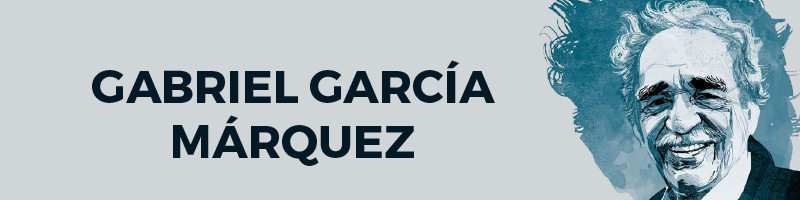
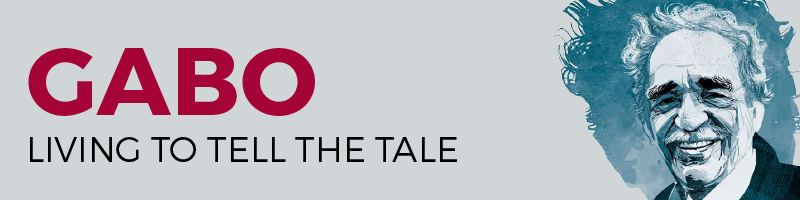
Update for Artisan 5

Changed region(s): [[0.6562, 0.0, 1.0, 1.0], [0.0312, 0.24, 0.625, 0.84]]

diff --git a/artisan.html b/artisan.html
@@ -4,19 +4,25 @@
     <head>
         <meta charset="utf-8">
         <meta http-equiv="X-UA-Compatible" content="IE=edge">
-        <title>Gabiel Garcia Marquez</title>
+        <title>Gabriel Garcia Marquez</title>
         <meta name="description" content="">
+        <link rel="stylesheet" type="text/css" href="style.css">
     </head>
     <body>
+    <div class="container">    
         <header>
+    
             <img src="banner.png"/>
+
         </header>
         
         <main>
         <section>   
-          <h1>Biography</h1>
+          <h1>Gabriel Garcia Marquez</h1>
+            
+            <h2>Biography</h2>
         
-          <p>Gabriel José de la Concordia García Márquez, born in <i>6 March 1927 – 17 April 2014 </i> was a <strong>Colombian</strong> novelist, short-story writer, screenwriter and journalist, known affectionately as Gabo or Gabito throughout Latin America. Considered one of the most significant authors of the 20th century and one of the best in the Spanish language, he was awarded the 1972 Neustadt International Prize for Literature and the 1982 Nobel Prize in Literature. He pursued a self-directed education that resulted in his leaving law school for a career in journalism. From early on, he showed no inhibitions in his criticism of Colombian and foreign politics. In 1958, he married Mercedes Barcha; they had two sons, Rodrigo and Gonzalo.</p>
+          <p>Gabriel José de la Concordia García Márquez, born in <i>6 March 1927 – 17 April 2014 </i> was a Colombian novelist, short-story writer, screenwriter and journalist, known affectionately as Gabo or Gabito throughout Latin America. Considered one of the most significant authors of the 20th century and one of the best in the Spanish language, he was awarded the 1972 Neustadt International Prize for Literature and the 1982 Nobel Prize in Literature. He pursued a self-directed education that resulted in his leaving law school for a career in journalism. From early on, he showed no inhibitions in his criticism of Colombian and foreign politics. In 1958, he married Mercedes Barcha; they had two sons, Rodrigo and Gonzalo.</p>
 
           <p>García Márquez started as a journalist, and wrote many acclaimed non-fiction works and short stories, but is best known for his novels, such as One Hundred Years of Solitude (1967), The Autumn of the Patriarch (1975), and Love in the Time of Cholera (1985). His works have achieved significant critical acclaim and widespread commercial success, most notably for popularizing a literary style known as magic realism, which uses magical elements and events in otherwise ordinary and realistic situations. Some of his works are set in the fictional village of Macondo (mainly inspired by his birthplace, Aracataca), and most of them explore the theme of solitude.</p>
 
@@ -61,7 +67,7 @@
           <li><video controls><source src="video/Interview2.mp4"></video></li>
         </ul>
         </section>
-        <section>
+        <section class="form">
             Would you like to know more about Gabo?
             <form>
             Sign up for our Newsletter <input type="checkbox"><br><br>  
@@ -84,6 +90,6 @@
         <footer>
             <p>Copyright 2017</p>
         </footer>
-       
+    </diV>    
     </body>
 </html>

diff --git a/style.css b/style.css
@@ -1,0 +1,42 @@
+
+.container{
+    width: 800px;
+    border:none;
+    padding: none;
+    margin: auto;
+}
+
+body{
+    font-family: "Montserrat", sans-serif;
+}
+
+h1 {
+  color: #031926;
+  font-weight: bolder;
+  text-align: center;
+  font-size: 36px;
+}
+
+p{
+    font-size: 16px;
+    font-weight: 300;
+}
+
+h2{
+    color:#196F86;
+    font-size: 36px;
+    font-weight: 500;
+}
+
+a{
+    text-decoration: none;
+    color: #F47D08;
+}
+
+ul{
+    list-style-type: none;
+}
+
+.form{
+    color: #85AA55;
+}
